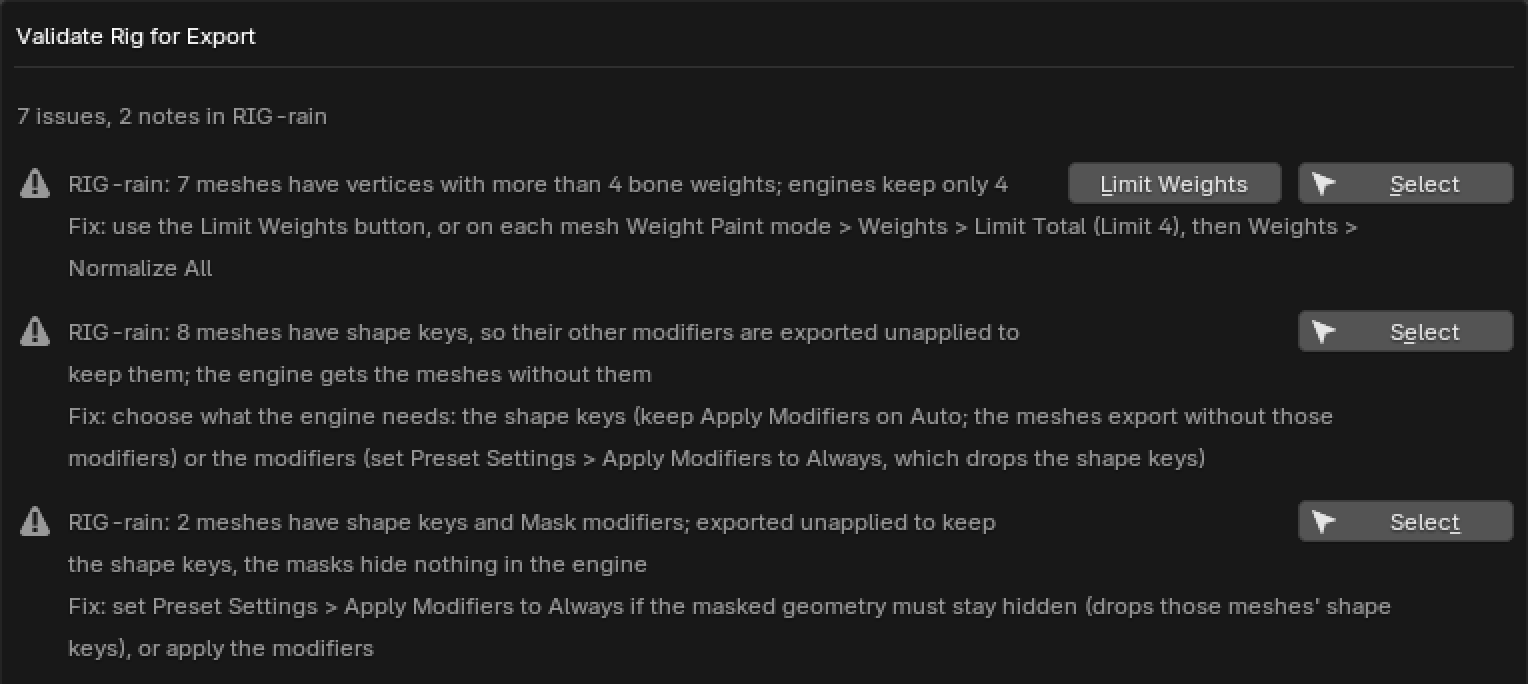
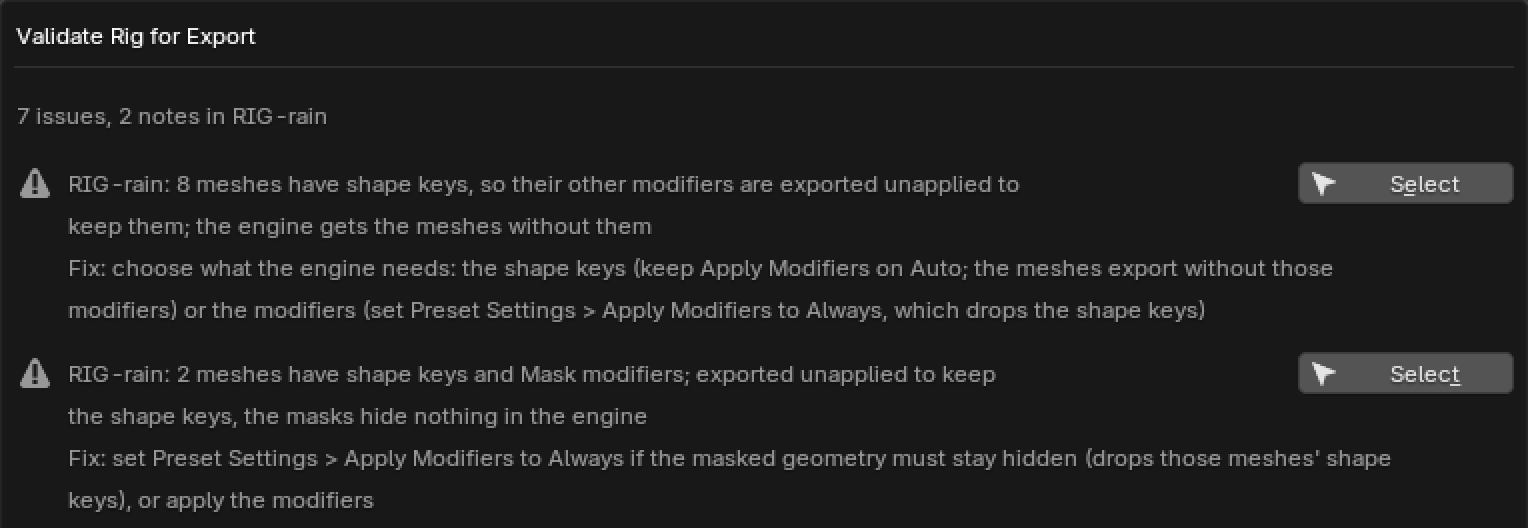
Rigbake page and guides, round 4 issues 1, 8 and 20: no image on the site shows the dialog's unsupported 'engines keep only 4' row (validate-dialog.png drops that row, the phone crop is the header plus the shape-key and Mask rows, captions say one row is left out; the full-window capture that showed

diff --git a/rigbake/index.html b/rigbake/index.html
@@ -135,7 +135,7 @@
   </ul>
 
   <h2>In Blender, for real</h2>
-  <p>Every image below is a capture from a real Blender 4.2 LTS window with Rigbake 1.2.4 installed, then re-captured on 1.2.5, where the panel and the dialog are pixel-identical, shown at its real size (the dialog a little smaller, to fit this column), or a Godot 4.7 render of its files: not a mockup. The character is Rain, the Blender Studio's free production rig (2166 bones, 2788 bone constraints), with an Idle, a Walk and a Run clip, each on its own unmuted NLA track (as after Push Down), and her legs in IK. Each image links to the full Blender window.</p>
+  <p>Every image below is a capture from a real Blender 4.2 LTS window with Rigbake 1.2.4 installed, then re-captured on 1.2.5, where the panel and the dialog are pixel-identical, shown at its real size (the dialog a little smaller, to fit this column, and with one row left out, as its caption says), or a Godot 4.7 render of its files: not a mockup. The character is Rain, the Blender Studio's free production rig (2166 bones, 2788 bone constraints), with an Idle, a Walk and a Run clip, each on its own unmuted NLA track (as after Push Down), and her legs in IK. The two panel images link to the full Blender window.</p>
   <div class="pair">
     <figure>
       <a href="img/character-01-blender-rain-clips.png"><img class="ui" src="img/panel-before-export.png" alt="The Rigbake sidebar tab at real size with Rain's armature selected: Armature: RIG-rain, Validate Rig for Export, the Godot preset, the file it will write, ~/projects/rain/export/RIG-rain.glb, and '3 clips: Walk, Run, Idle' above the Export Game-Ready button, with Preset Settings closed below it" width="256" height="344" loading="lazy"></a>
@@ -143,16 +143,16 @@
     </figure>
     <figure>
       <a href="img/character-03-export-summary.png"><img class="ui" src="img/panel-after-export.png" alt="The Rigbake tab at real size after Export Game-Ready with the default settings: the row '7 issues, 2 notes' with a Report button, and the Last Export box naming RIG-rain.glb with 1-25 Walk, 1-17 Run, 1-49 Idle and the notes 'Modifiers left unapplied' and '3 baked actions kept in this file'" width="256" height="472" loading="lazy"></a>
-      <figcaption>After: the validator's count, each clip with its frame range, one line per note. Her seven issues are leftovers in a production rig, such as empty or unmatched vertex groups and more than four weights on some vertices; none of them changes the baked clips.</figcaption>
+      <figcaption>After: the validator's count, each clip with its frame range, one line per note. Her seven issues are in the dialog below. Two of them matter in the engine: her Mask modifiers hide nothing unless Apply Modifiers is set to Always (the Rain images from Godot on this page use Always), and modifiers kept unapplied for her shape keys don't reach the engine. Others are leftovers in a production rig, such as empty or unmatched vertex groups.</figcaption>
     </figure>
   </div>
   <figure>
     <p class="swipe-hint narrow-only">Rigbake's rig check on Rain, at Blender's own UI size: swipe the dialog sideways to read each line &rarr;</p>
-    <div class="swipe-wrap"><div class="scroll-x"><a href="img/character-02-validate-popup.png"><picture>
-      <source media="(max-width: 600px)" srcset="img/validate-dialog-phone.png 2x" width="764" height="342">
-      <img class="ui" src="img/validate-dialog.png" alt="The Validate Rig for Export dialog on Rain: '7 issues, 2 notes in RIG-rain'; meshes with more than four bone weights per vertex with Limit Weights and Select buttons, meshes whose modifiers stay unapplied to keep shape keys, two meshes whose Mask modifiers then hide nothing in the engine, vertex groups with no weights or no matching bone, deform bones without weights, each with its fix and a Select button in one column; then a note that her shoes keep their shape keys over an unapplied Subdivision, fine for most games, and one more note in the full report; Close and Open Full Report" width="764" height="766" loading="lazy">
-    </picture></a></div></div>
-    <figcaption>Validate Rig for Export on a production rig (tap the image for the full Blender window): seven issues, each summed up across her meshes with its fix, then notes for what is fine as it is or handled by the export (her 1,806 constrained bones are baked on export). The full report names every bone and vertex group.<span class="narrow-only"> On a phone: the header and the first three issues.</span></figcaption>
+    <div class="swipe-wrap"><div class="scroll-x"><picture>
+      <source media="(max-width: 600px)" srcset="img/validate-dialog-phone.png 2x" width="764" height="264">
+      <img class="ui" src="img/validate-dialog.png" alt="The Validate Rig for Export dialog on Rain: '7 issues, 2 notes in RIG-rain'; meshes whose modifiers stay unapplied to keep shape keys, two meshes whose Mask modifiers then hide nothing in the engine, vertex groups with no weights or no matching bone, deform bones without weights, each with its fix and a Select button in one column; then a note that her shoes keep their shape keys over an unapplied Subdivision, fine for most games, and one more note in the full report; Close and Open Full Report" width="764" height="692" loading="lazy">
+    </picture></div></div>
+    <figcaption>Validate Rig for Export on a production rig: seven issues, each summed up across her meshes with its fix, then notes for what is fine as it is or handled by the export (her 1,806 constrained bones are baked on export). The full report names every bone and vertex group. One of the seven, a count of meshes with more than four bone weights per vertex, is left out of this picture.<span class="narrow-only"> On a phone: the header and the shape-key and Mask issues.</span></figcaption>
   </figure>
   <figure id="rain">
     <picture>

diff --git a/guides/fbx-duplicate-takes/index.html b/guides/fbx-duplicate-takes/index.html
@@ -11,15 +11,15 @@
 <meta property="og:title" content="Blender FBX export: why you get Rig|Idle, duplicate takes, and an Idle with the wrong pose">
 <meta property="og:description" content="With clips on unmuted NLA tracks, Blender's default FBX export writes each clip twice and adds other actions. In one of our tests two of four takes were wrong by up to 0.6 m. What causes it and how to avoid it.">
 <meta property="og:url" content="https://ochrestack.com/guides/fbx-duplicate-takes/">
-<meta property="og:image" content="https://ochrestack.com/rigbake/img/character-04-godot-side-by-side.png">
+<meta property="og:image" content="https://ochrestack.com/rigbake/img/rain-plain-vs-rigbake-2x1.png">
 <meta property="og:image:width" content="1600">
-<meta property="og:image:height" content="900">
-<meta property="og:image:alt" content="Godot 4.7, the character Rain at the same frame twice: left, Blender's default FBX export with 23 takes and an Idle whose legs are caught mid-stride; right, one take per clip, standing as in Blender">
+<meta property="og:image:height" content="800">
+<meta property="og:image:alt" content="Rain in Godot 4.7 at the same frame, both playing Idle: left, Blender's default .fbx, her knee raised mid-stride with Run's legs; right, Rigbake's .glb (Godot preset), standing as in Blender">
 <meta name="twitter:card" content="summary_large_image">
 <meta name="twitter:title" content="Blender FBX export: why you get Rig|Idle, duplicate takes, and a wrong Idle">
 <meta name="twitter:description" content="With clips on unmuted NLA tracks, Blender's default FBX export writes each clip twice. In one of our tests two of four takes were wrong by up to 0.6 m. Why, and how to avoid it.">
-<meta name="twitter:image" content="https://ochrestack.com/rigbake/img/character-04-godot-side-by-side.png">
-<meta name="twitter:image:alt" content="Godot 4.7: Rain from Blender's default FBX export with 23 takes and a wrong Idle, beside an export with one take per clip">
+<meta name="twitter:image" content="https://ochrestack.com/rigbake/img/rain-plain-vs-rigbake-2x1.png">
+<meta name="twitter:image:alt" content="Rain in Godot 4.7: Blender's default FBX export, Idle with Run's legs, beside Rigbake's .glb standing as in Blender">
 <link rel="icon" href="../../icon.svg" type="image/svg+xml">
 <style>
   :root { --ochre: #C8842B; --ochre-text: #8A5A1A; --ink: #2B2118; --paper: #FAF7F2; --muted: #5A4E43; }
@@ -108,11 +108,14 @@
     <li>A third character, built from scratch by a tester (IK legs, Idle, Walk and Attack on unmuted tracks): 6 takes for 3 clips in Godot, with the <code>Knight|</code> takes off by up to 0.605 m.</li>
   </ul>
   <figure>
+    <img src="../../rigbake/img/rain-plain-vs-rigbake-2x1.png" alt="Blender Studio's Rain twice in Godot 4.7 at the same frame, both playing Idle. Left, labelled Plain FBX, Idle: Run's legs, Blender's default .fbx: her knee is raised mid-stride. Right, labelled Rigbake, Idle, as in Blender, its .glb, Godot preset: she stands" width="1600" height="800" loading="lazy">
+  </figure>
+  <figure>
     <picture>
       <source media="(max-width: 600px)" srcset="../../rigbake/img/godot-lists-phone.png" width="318" height="722">
-      <img src="../../rigbake/img/character-04-godot-side-by-side.png" alt="Godot 4.7, side by side at the same frame: Blender's default FBX export of Rain with 23 takes, Idle, Run and Walk each listed twice, playing RIG-rain|Idle with her legs caught mid-stride from the Run clip; on the right an export with exactly Idle, Run and Walk, playing Idle and standing as in Blender" width="1600" height="900" loading="lazy">
+      <img src="../../rigbake/img/godot-lists-desktop.png" alt="The two AnimationPlayer lists from Godot 4.7: Blender's default FBX export of Rain with 23 animations, Idle, Run and Walk each listed twice and 17 face-rig pose actions, playing 'RIG-rain|Idle' with the wrong pose; Rigbake's export with 3 animations, Idle, Run and Walk, playing Idle, matching Blender" width="712" height="530" loading="lazy">
     </picture>
-    <figcaption>Rain in Godot 4.7, same frame. Left: Blender's default FBX export, 23 takes, and in <code>RIG-rain|Idle</code> Run's legs leak in (0.33 m off). Right: Rigbake's export (Godot preset, .glb; Apply Modifiers set to Always for her Mask modifiers), 3 takes, posed as in Blender. Same materials on both sides. Character: Rain Rig (CC) Blender Foundation | studio.blender.org, used under <a href="https://creativecommons.org/licenses/by/4.0/">CC BY 4.0</a>; we added the animation clips and simplified two eye materials for the engine export.</figcaption>
+    <figcaption>Rain in Godot 4.7, same frame, and the animation lists of both files. Left: Blender's default FBX export, 23 takes, and in <code>RIG-rain|Idle</code> Run's legs leak in (0.33 m off). Right: Rigbake's export (Godot preset, .glb; Apply Modifiers set to Always for her Mask modifiers), 3 takes, posed as in Blender. Same materials on both sides. Character: Rain Rig (CC) Blender Foundation | studio.blender.org, used under <a href="https://creativecommons.org/licenses/by/4.0/">CC BY 4.0</a>; we added the animation clips and simplified two eye materials for the engine export.</figcaption>
   </figure>
 
   <h2 id="why">5. Why one of them is wrong</h2>

diff --git a/guides/bake-constraints-before-export/index.html b/guides/bake-constraints-before-export/index.html
@@ -11,15 +11,15 @@
 <meta property="og:title" content="Do you need to bake constraints before exporting Blender animations?">
 <meta property="og:description" content="For one armature with IK and drivers, one action in the file and nothing on the NLA, Blender's glTF and FBX exporters already bake constraints. We measured it. Here are the two setups where they don't, and what to do.">
 <meta property="og:url" content="https://ochrestack.com/guides/bake-constraints-before-export/">
-<meta property="og:image" content="https://ochrestack.com/rigbake/img/character-02-validate-popup.png">
+<meta property="og:image" content="https://ochrestack.com/rigbake/img/validate-dialog-og-2x1.png">
 <meta property="og:image:width" content="1600">
-<meta property="og:image:height" content="900">
-<meta property="og:image:alt" content="Blender 4.2 with the Blender Studio character Rain and a pre-export rig check listing seven issues, such as more than four bone weights per vertex and vertex groups that match no bone">
+<meta property="og:image:height" content="800">
+<meta property="og:image:alt" content="A pre-export rig check in Blender 4.2 on the Blender Studio character Rain: 7 issues, 2 notes; meshes whose modifiers stay unapplied to keep shape keys, and two meshes whose Mask modifiers then hide nothing in the engine, each with its fix">
 <meta name="twitter:card" content="summary_large_image">
 <meta name="twitter:title" content="Do you need to bake constraints before exporting Blender animations?">
 <meta name="twitter:description" content="For one armature with IK and drivers, one action in the file and nothing on the NLA, Blender's glTF and FBX exporters already bake constraints. We measured it. Here are the two setups where they don't.">
-<meta name="twitter:image" content="https://ochrestack.com/rigbake/img/character-02-validate-popup.png">
-<meta name="twitter:image:alt" content="Blender 4.2 with the Blender Studio character Rain and a pre-export rig check listing seven issues">
+<meta name="twitter:image" content="https://ochrestack.com/rigbake/img/validate-dialog-og-2x1.png">
+<meta name="twitter:image:alt" content="A pre-export rig check in Blender 4.2 on the Blender Studio character Rain: 7 issues, including Mask modifiers that hide nothing in the engine">
 <link rel="icon" href="../../icon.svg" type="image/svg+xml">
 <style>
   :root { --ochre: #C8842B; --ochre-text: #8A5A1A; --ink: #2B2118; --paper: #FAF7F2; --muted: #5A4E43; }
@@ -130,8 +130,8 @@
     <li><strong>Vertex groups that match no bone.</strong> The skin ignores them, so those vertices don't follow anything you expect. Fix: rename each group to the bone it should follow, or delete it.</li>
   </ul>
   <figure>
-    <a href="../../rigbake/img/character-02-validate-popup.png"><img class="ui" src="../../rigbake/img/validate-dialog.png" alt="A pre-export rig check on the Blender Studio character Rain: '7 issues, 2 notes in RIG-rain', including meshes with more than four bone weights per vertex, meshes whose modifiers stay unapplied to keep shape keys, vertex groups with no weights or no matching bone, and deform bones without weights, each with its fix and a Select button" width="764" height="766" loading="lazy"></a>
-    <figcaption>The same checklist run on a real production character, Rain, in Blender 4.2: seven issues, each with its fix. Her 2,788 bone constraints are not among the issues: the check lists them as a note, because the export bakes them. (This is Rigbake's Validate button; tap the image for the full Blender window.) Character: Rain Rig (CC) Blender Foundation | studio.blender.org, used under <a href="https://creativecommons.org/licenses/by/4.0/">CC BY 4.0</a>; we added the animation clips.</figcaption>
+    <img class="ui" src="../../rigbake/img/validate-dialog.png" alt="A pre-export rig check on the Blender Studio character Rain: '7 issues, 2 notes in RIG-rain', including meshes whose modifiers stay unapplied to keep shape keys, Mask modifiers that then hide nothing in the engine, vertex groups with no weights or no matching bone, and deform bones without weights, each with its fix and a Select button" width="764" height="692" loading="lazy">
+    <figcaption>The same checklist run on a real production character, Rain, in Blender 4.2: seven issues, each with its fix. Her 2,788 bone constraints are not among the issues: the check lists them as a note, because the export bakes them. (This is Rigbake's Validate button. One of the seven, a count of meshes with more than four bone weights per vertex, is left out of this picture.) Character: Rain Rig (CC) Blender Foundation | studio.blender.org, used under <a href="https://creativecommons.org/licenses/by/4.0/">CC BY 4.0</a>; we added the animation clips.</figcaption>
   </figure>
 
   <h2 id="rigbake">7. Where Rigbake fits</h2>

diff --git a/guides/index.html b/guides/index.html
@@ -11,15 +11,15 @@
 <meta property="og:title" content="Guides: exporting Blender animations to Godot, Unity and Unreal">
 <meta property="og:description" content="Measured guides to Blender's glTF and FBX animation export: when constraints need baking, why a control rig exports no animations, and why FBX writes duplicate, wrong takes.">
 <meta property="og:url" content="https://ochrestack.com/guides/">
-<meta property="og:image" content="https://ochrestack.com/rigbake/img/character-04-godot-side-by-side.png">
+<meta property="og:image" content="https://ochrestack.com/rigbake/img/rain-plain-vs-rigbake-2x1.png">
 <meta property="og:image:width" content="1600">
-<meta property="og:image:height" content="900">
-<meta property="og:image:alt" content="Godot 4.7, the character Rain at the same frame twice: Blender's default FBX export with 23 takes and a wrong Idle, beside an export with one take per clip">
+<meta property="og:image:height" content="800">
+<meta property="og:image:alt" content="Rain in Godot 4.7 at the same frame, both playing Idle: left, Blender's default .fbx, her knee raised mid-stride with Run's legs; right, Rigbake's .glb (Godot preset), standing as in Blender">
 <meta name="twitter:card" content="summary_large_image">
 <meta name="twitter:title" content="Guides: exporting Blender animations to Godot, Unity and Unreal">
 <meta name="twitter:description" content="When constraints need baking, why a control rig exports no animations, and why FBX writes duplicate, wrong takes. Measured.">
-<meta name="twitter:image" content="https://ochrestack.com/rigbake/img/character-04-godot-side-by-side.png">
-<meta name="twitter:image:alt" content="Godot 4.7: Rain from Blender's default FBX export with 23 takes and a wrong Idle, beside an export with one take per clip">
+<meta name="twitter:image" content="https://ochrestack.com/rigbake/img/rain-plain-vs-rigbake-2x1.png">
+<meta name="twitter:image:alt" content="Rain in Godot 4.7: Blender's default FBX export, Idle with Run's legs, beside Rigbake's .glb standing as in Blender">
 <link rel="icon" href="../icon.svg" type="image/svg+xml">
 <style>
   :root { --ochre: #C8842B; --ochre-text: #8A5A1A; --ink: #2B2118; --paper: #FAF7F2; --muted: #5A4E43; }

diff --git a/rigbake/quick-start.html b/rigbake/quick-start.html
@@ -70,7 +70,7 @@
         <li>Notes need nothing from you ("Handled: baked on export").</li>
         <li><strong>Close</strong> closes the dialog; the tab keeps the counts and a <strong>Report</strong> button.</li>
       </ul>
-      <figure><img src="img/validate-dialog.png" alt="The Validate Rig for Export dialog on Blender Studio's Rain: 7 issues and 2 notes, each issue with its fix and a Select button in one column, the weights issue with Limit Weights, and Close and Open Full Report at the bottom" width="764" height="766" loading="lazy"><figcaption>The dialog on a production rig.</figcaption></figure>
+      <figure><img src="img/validate-dialog.png" alt="The Validate Rig for Export dialog on Blender Studio's Rain: 7 issues and 2 notes, each issue with its fix and a Select button in one column, and Close and Open Full Report at the bottom" width="764" height="692" loading="lazy"><figcaption>The dialog on a production rig. One of the seven, a count of meshes with more than four bone weights per vertex, is left out of this picture.</figcaption></figure>
     </li>
     <li><strong>Click Export Game-Ready.</strong>
       <ul>
